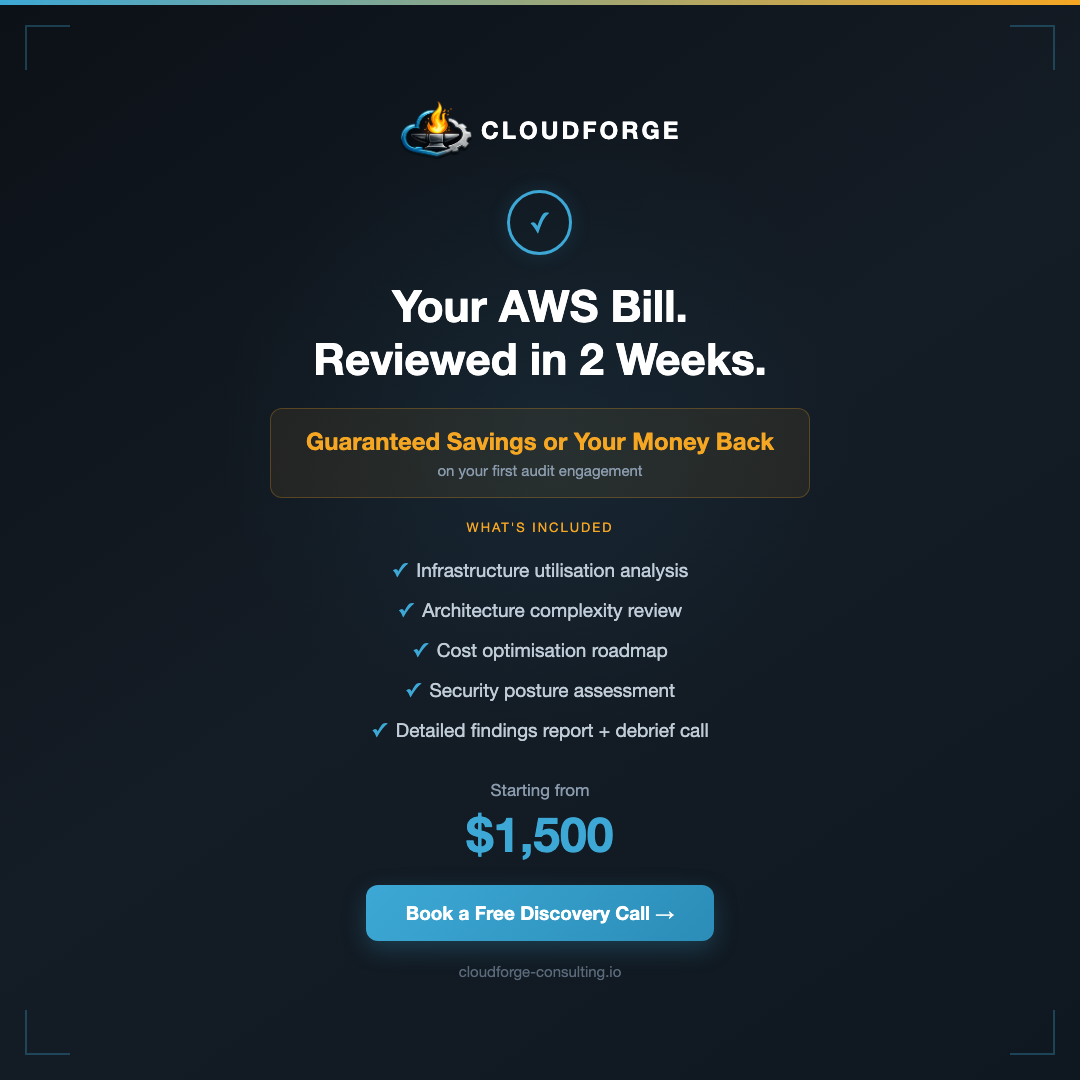
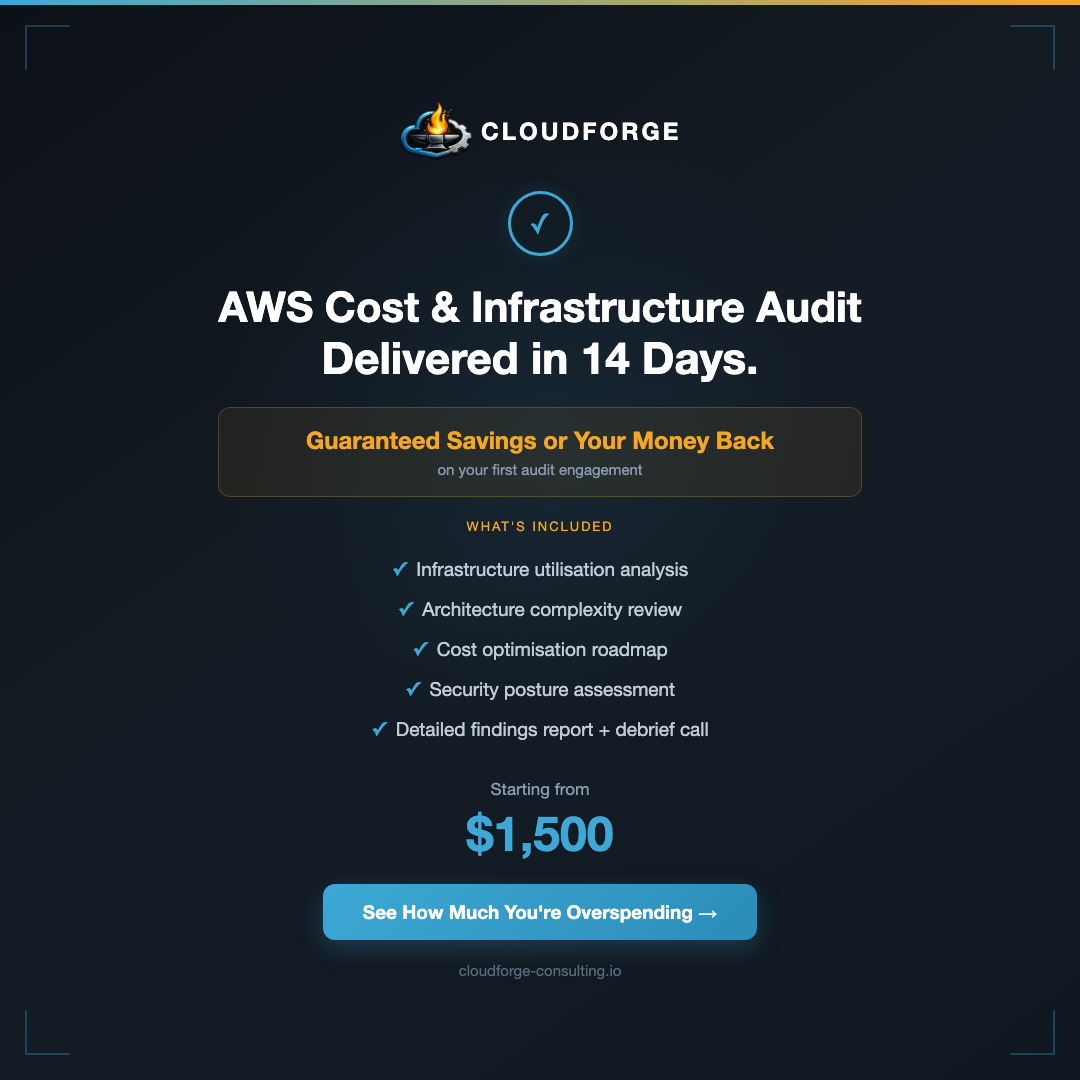
feat: context-specific CTAs, audit headline update, refresh all screenshots

diff --git a/marketing/02-guaranteed-savings.html b/marketing/02-guaranteed-savings.html
@@ -43,8 +43,8 @@
   <div class="c">
     <div class="logo"><img src="../assets/cloudforgelogo.PNG"> CLOUDFORGE</div>
     <div class="shield"><span>✓</span></div>
-    <h1>Your AWS Bill.</h1>
-    <h1>Reviewed in 2 Weeks.</h1>
+    <h1 style="font-size:42px;">AWS Cost &amp; Infrastructure Audit</h1>
+    <h1>Delivered in 14 Days.</h1>
     <div class="gbox"><div style="font-size:24px; font-weight:700; color:#f5a623;">Guaranteed Savings or Your Money Back</div><div style="font-size:15px; color:#8a9bae; margin-top:6px;">on your first audit engagement</div></div>
     <div style="font-size:13px; color:#f5a623; letter-spacing:2px; margin-bottom:15px;">WHAT'S INCLUDED</div>
     <div style="max-width:520px; margin:0 auto 30px;">
@@ -56,7 +56,7 @@
     </div>
     <div style="color:#8a9bae; font-size:17px; margin-bottom:5px;">Starting from</div>
     <div style="font-size:48px; font-weight:800; color:#3da8d5; margin-bottom:22px;">$1,500</div>
-    <a class="btn" style="margin-bottom:22px;">Book a Free Discovery Call →</a>
+    <a class="btn" style="margin-bottom:22px;">See How Much You're Overspending →</a>
     <div style="font-size:15px; color:#5a6a7a;">cloudforge-consulting.io</div>
   </div>
 </body>

diff --git a/index.html b/index.html
@@ -334,8 +334,8 @@
   <section class="cta">
     <div class="container">
       <h2>Ready to simplify your infrastructure?</h2>
-      <p>Book a free 30-minute discovery call. We'll review your current setup and tell you exactly where we can help — no obligation.</p>
-      <a href="contact.html" class="btn btn--primary btn--large">Book Your Free Discovery Call</a>
+      <p>Find out where your cloud spend is going, fix what's broken, or deploy the right way from the start.</p>
+      <a href="contact.html" class="btn btn--primary btn--large">Fix Your Infrastructure — Start Here →</a>
     </div>
   </section>
 

diff --git a/marketing/04-cost-savings.html b/marketing/04-cost-savings.html
@@ -71,6 +71,7 @@
       <div class="ck"><span>✓</span>Consolidated redundant data stores</div>
       <div class="ck"><span>✓</span>Implemented Savings Plans</div>
     </div>
+    <a style="display:inline-block; padding:14px 35px; background:linear-gradient(135deg,#3da8d5,#2b8db8); color:#fff; font-size:17px; font-weight:700; border-radius:12px; text-decoration:none; box-shadow:0 8px 25px rgba(61,168,213,0.25); margin-bottom:18px;">See How Much You're Overspending →</a>
     <div style="font-size:15px; color:#5a6a7a;">cloudforge-consulting.io</div>
   </div>
 </body>

diff --git a/services.html b/services.html
@@ -406,7 +406,7 @@
   <section class="cta">
     <div class="container">
       <h2>Not sure which service you need?</h2>
-      <p>Book a free discovery call and we'll figure it out together. No pressure, no sales pitch — just a technical conversation about your infrastructure.</p>
+      <p>Book a free discovery call and we'll figure it out together. No pressure, no sales pitch — just a technical conversation.</p>
       <a href="contact.html" class="btn btn--primary btn--large">Book Your Free Discovery Call</a>
     </div>
   </section>

diff --git a/marketing/01-stop-firefighting.html b/marketing/01-stop-firefighting.html
@@ -53,7 +53,7 @@
     </div>
     <div style="width:50px; height:2px; background:rgba(61,168,213,0.3); margin:0 auto 22px;"></div>
     <p style="font-size:24px; font-weight:600; color:#3da8d5; margin-bottom:25px;">We fix it. You ship features.</p>
-    <a class="btn" style="margin-bottom:22px;">Book a Free Discovery Call →</a>
+    <a class="btn" style="margin-bottom:22px;">Fix Your Infrastructure — Start Here →</a>
     <div style="font-size:15px; color:#5a6a7a;">cloudforge-consulting.io</div>
   </div>
 </body>

diff --git a/marketing/03-former-aws-engineers.html b/marketing/03-former-aws-engineers.html
@@ -65,7 +65,7 @@
         <div style="font-size:12px; color:#8a9bae;">CI/CD &amp; Automation</div>
       </div>
     </div>
-    <a class="btn" style="margin-bottom:22px;">Book a Free Discovery Call →</a>
+    <a class="btn" style="margin-bottom:22px;">Deploy Your Infrastructure — The Right Way →</a>
     <div style="font-size:15px; color:#5a6a7a;">cloudforge-consulting.io</div>
   </div>
 </body>
